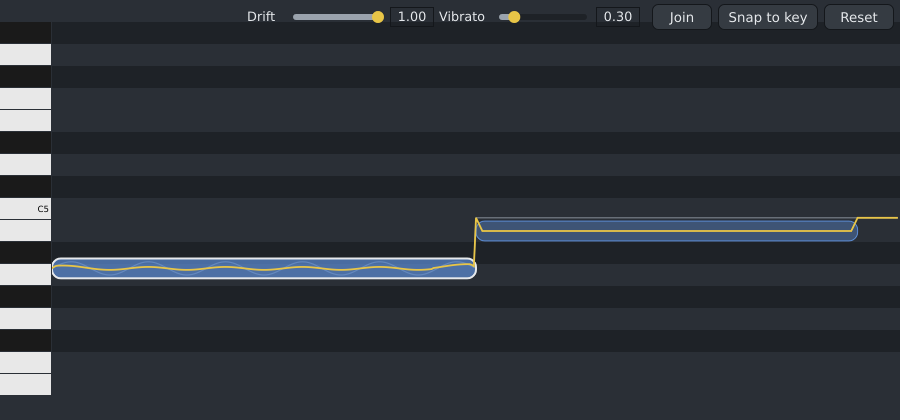
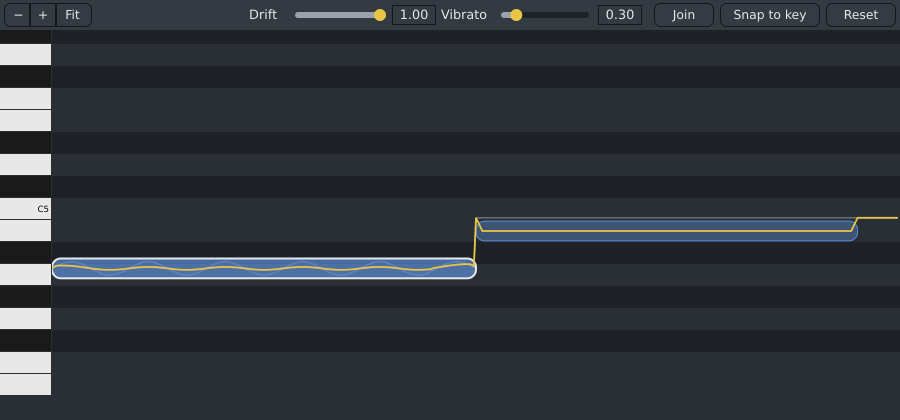
Spinus Tune: the top bar holds its buttons
The editor painted no toolbar strip of its own, and the top pitch row was
drawn up into the 34 px toolbar area, so the bar looked about 22 px tall
while its buttons reached 30 px. Now the bar is painted in the toolbar
colour, the rows and keys are clipped to below it, and it uses the same
30 px height and 4/3 px margins as the Playlist and Automation editor.
A test checks every control fits in the bar and the bar's colour reaches
its bottom edge.

Claude-Session: https://claude.ai/code/session_0119Ng2zVPDK28ZkS9jKhGci

Changed region(s): [[0.0, 0.0, 1.0, 0.0929]]

diff --git a/tests/ui/SpinusTuneTests.cpp b/tests/ui/SpinusTuneTests.cpp
@@ -118,6 +118,38 @@ TEST_CASE ("Spinus Tune's window: move, split, join, drift, vibrato, snap and re
     CHECK (editor.getStatusText().isNotEmpty());
 }
 
+TEST_CASE ("Spinus Tune's toolbar holds its controls, and the rows stay out of it", "[ui][tune]")
+{
+    Vocal v;
+    ui::SpinusLookAndFeel lookAndFeel { ui::Theme::dark() };
+    ui::SpinusTuneEditor editor (v.session, v.clip, nullptr);
+    editor.setLookAndFeel (&lookAndFeel);
+    for (auto width : { 900, 1400 })
+    {
+        editor.setSize (width, 420);
+        const auto bar = editor.getLocalBounds().removeFromTop (ui::SpinusTuneEditor::toolbarHeight);
+        int inBar = 0;
+        for (auto* child : editor.getChildren())
+            if (child->isVisible() && child->getY() < bar.getBottom())
+            {
+                CHECK (bar.contains (child->getBounds()));
+                ++inBar;
+            }
+        CHECK (inBar == 8); // Fit/zoom, Drift and Vibrato (each a label and a slider), Join, Snap to key, Reset
+
+        // The bar is painted in the toolbar colour all the way down to its bottom edge, over no row of the grid.
+        const auto image = editor.createComponentSnapshot (editor.getLocalBounds(), true, 1.0f);
+        const auto header = lookAndFeel.getTheme().get ("panelHeader");
+        for (auto y : { 0, bar.getBottom() - 1 })
+        {
+            CHECK (image.getPixelAt (1, y) == header); // over the keyboard, left of the zoom buttons
+            CHECK (image.getPixelAt (bar.getCentreX() - 250, y) == header); // over the grid, between the controls
+        }
+        CHECK (image.getPixelAt (1, bar.getBottom()) != header);
+    }
+    editor.setLookAndFeel (nullptr);
+}
+
 TEST_CASE ("Spinus Tune editor screenshot for the manual", "[.screenshot][tune]")
 {
     Vocal v;

diff --git a/src/ui/SpinusTune.cpp b/src/ui/SpinusTune.cpp
@@ -34,7 +34,7 @@ juce::String noteName (int pitch)
     return juce::String (names[((pitch % 12) + 12) % 12]) + juce::String (pitch / 12);
 }
 
-constexpr int keyboardWidth = 52, toolbarHeight = 34;
+constexpr int keyboardWidth = 52;
 } // namespace
 
 SpinusTuneEditor::SpinusTuneEditor (Session& s, model::ClipId c, ai::AiService* ai)
@@ -371,7 +371,7 @@ int SpinusTuneEditor::noteAt (juce::Point<float> p) const
 void SpinusTuneEditor::resized()
 {
     auto area = getLocalBounds();
-    auto toolbar = area.removeFromTop (toolbarHeight).reduced (6, 4);
+    auto toolbar = area.removeFromTop (toolbarHeight).reduced (4, 3);
     resetButton.setBounds (toolbar.removeFromRight (70));
     toolbar.removeFromRight (6);
     snapButton.setBounds (toolbar.removeFromRight (100));
@@ -394,8 +394,13 @@ void SpinusTuneEditor::paint (juce::Graphics& g)
 {
     const auto& theme = themeOf (*this);
     g.fillAll (theme.get ("panel"));
+    // The toolbar's own strip, as in the Piano Roll and the Playlist.
+    g.setColour (theme.get ("panelHeader"));
+    g.fillRect (getLocalBounds().removeFromTop (toolbarHeight));
 
-    // Rows and keys.
+    // Rows and keys, kept out of the toolbar and the status line (the top and bottom rows are only partly in view).
+    juce::Graphics::ScopedSaveState clipToRows (g);
+    g.reduceClipRegion (keyboard.getUnion (grid));
     for (auto pitch = (int)lowestPitch; pitchToY ((float)pitch) > (float)grid.getY() - rowHeight; ++pitch)
     {
         const auto y = pitchToY ((float)pitch) - rowHeight * 0.5f;

diff --git a/src/ui/SpinusTune.h b/src/ui/SpinusTune.h
@@ -20,6 +20,9 @@ namespace spinus::ui
 class SpinusTuneEditor final : public juce::Component, private juce::ChangeListener, private juce::Timer
 {
 public:
+    /** The toolbar's height, as in the Piano Roll, the Playlist and the Automation editor. */
+    static constexpr int toolbarHeight = 30;
+
     SpinusTuneEditor (Session&, model::ClipId, ai::AiService*);
     ~SpinusTuneEditor() override;
 

diff --git a/CHANGELOG.md b/CHANGELOG.md
@@ -7,6 +7,8 @@ feature; [Known issues](docs/user/known-issues.md) lists what doesn't work yet.
 
 ### Fixes
 
+- Spinus Tune's top bar now has its own background, tall enough for its buttons and sliders, like the Piano
+  Roll's. Before, the top row of notes was painted over it, so the bar looked smaller than its buttons.
 - A project file with a feedback loop of sends or sidechains in it (insert A sends to B and B back to A, for
   example after editing the file by hand) now opens with the send that closes the loop removed, and Spinus
   says which one. Before, such a file opened with the loop in it.
